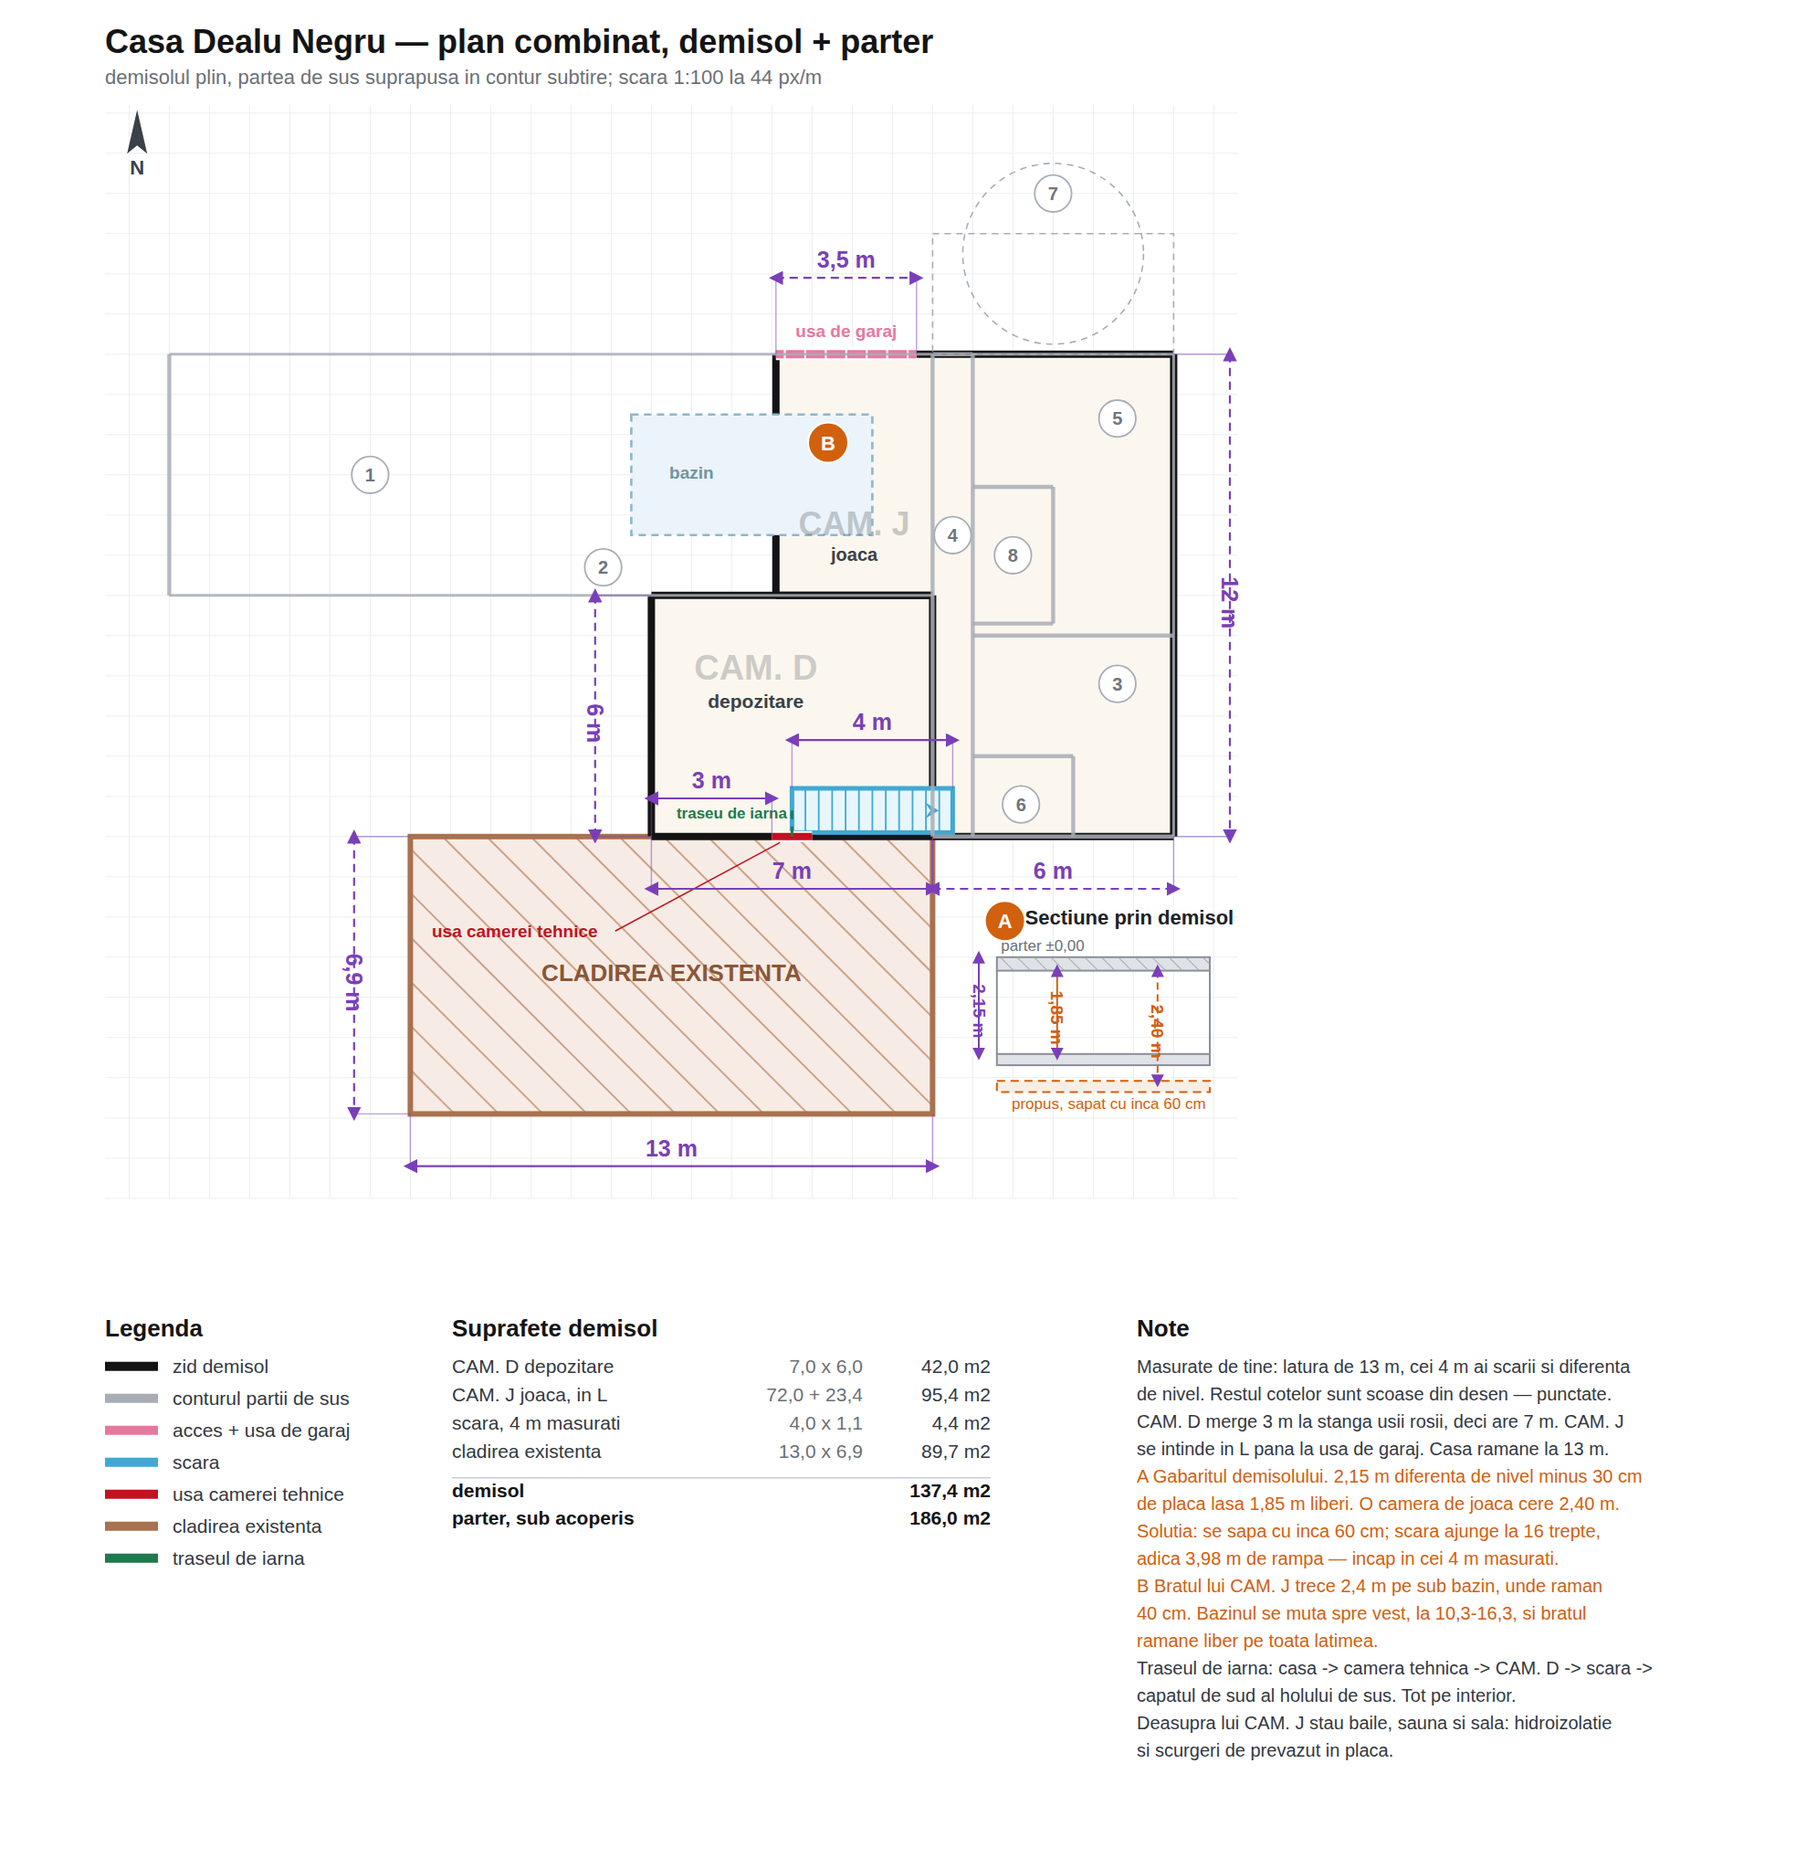
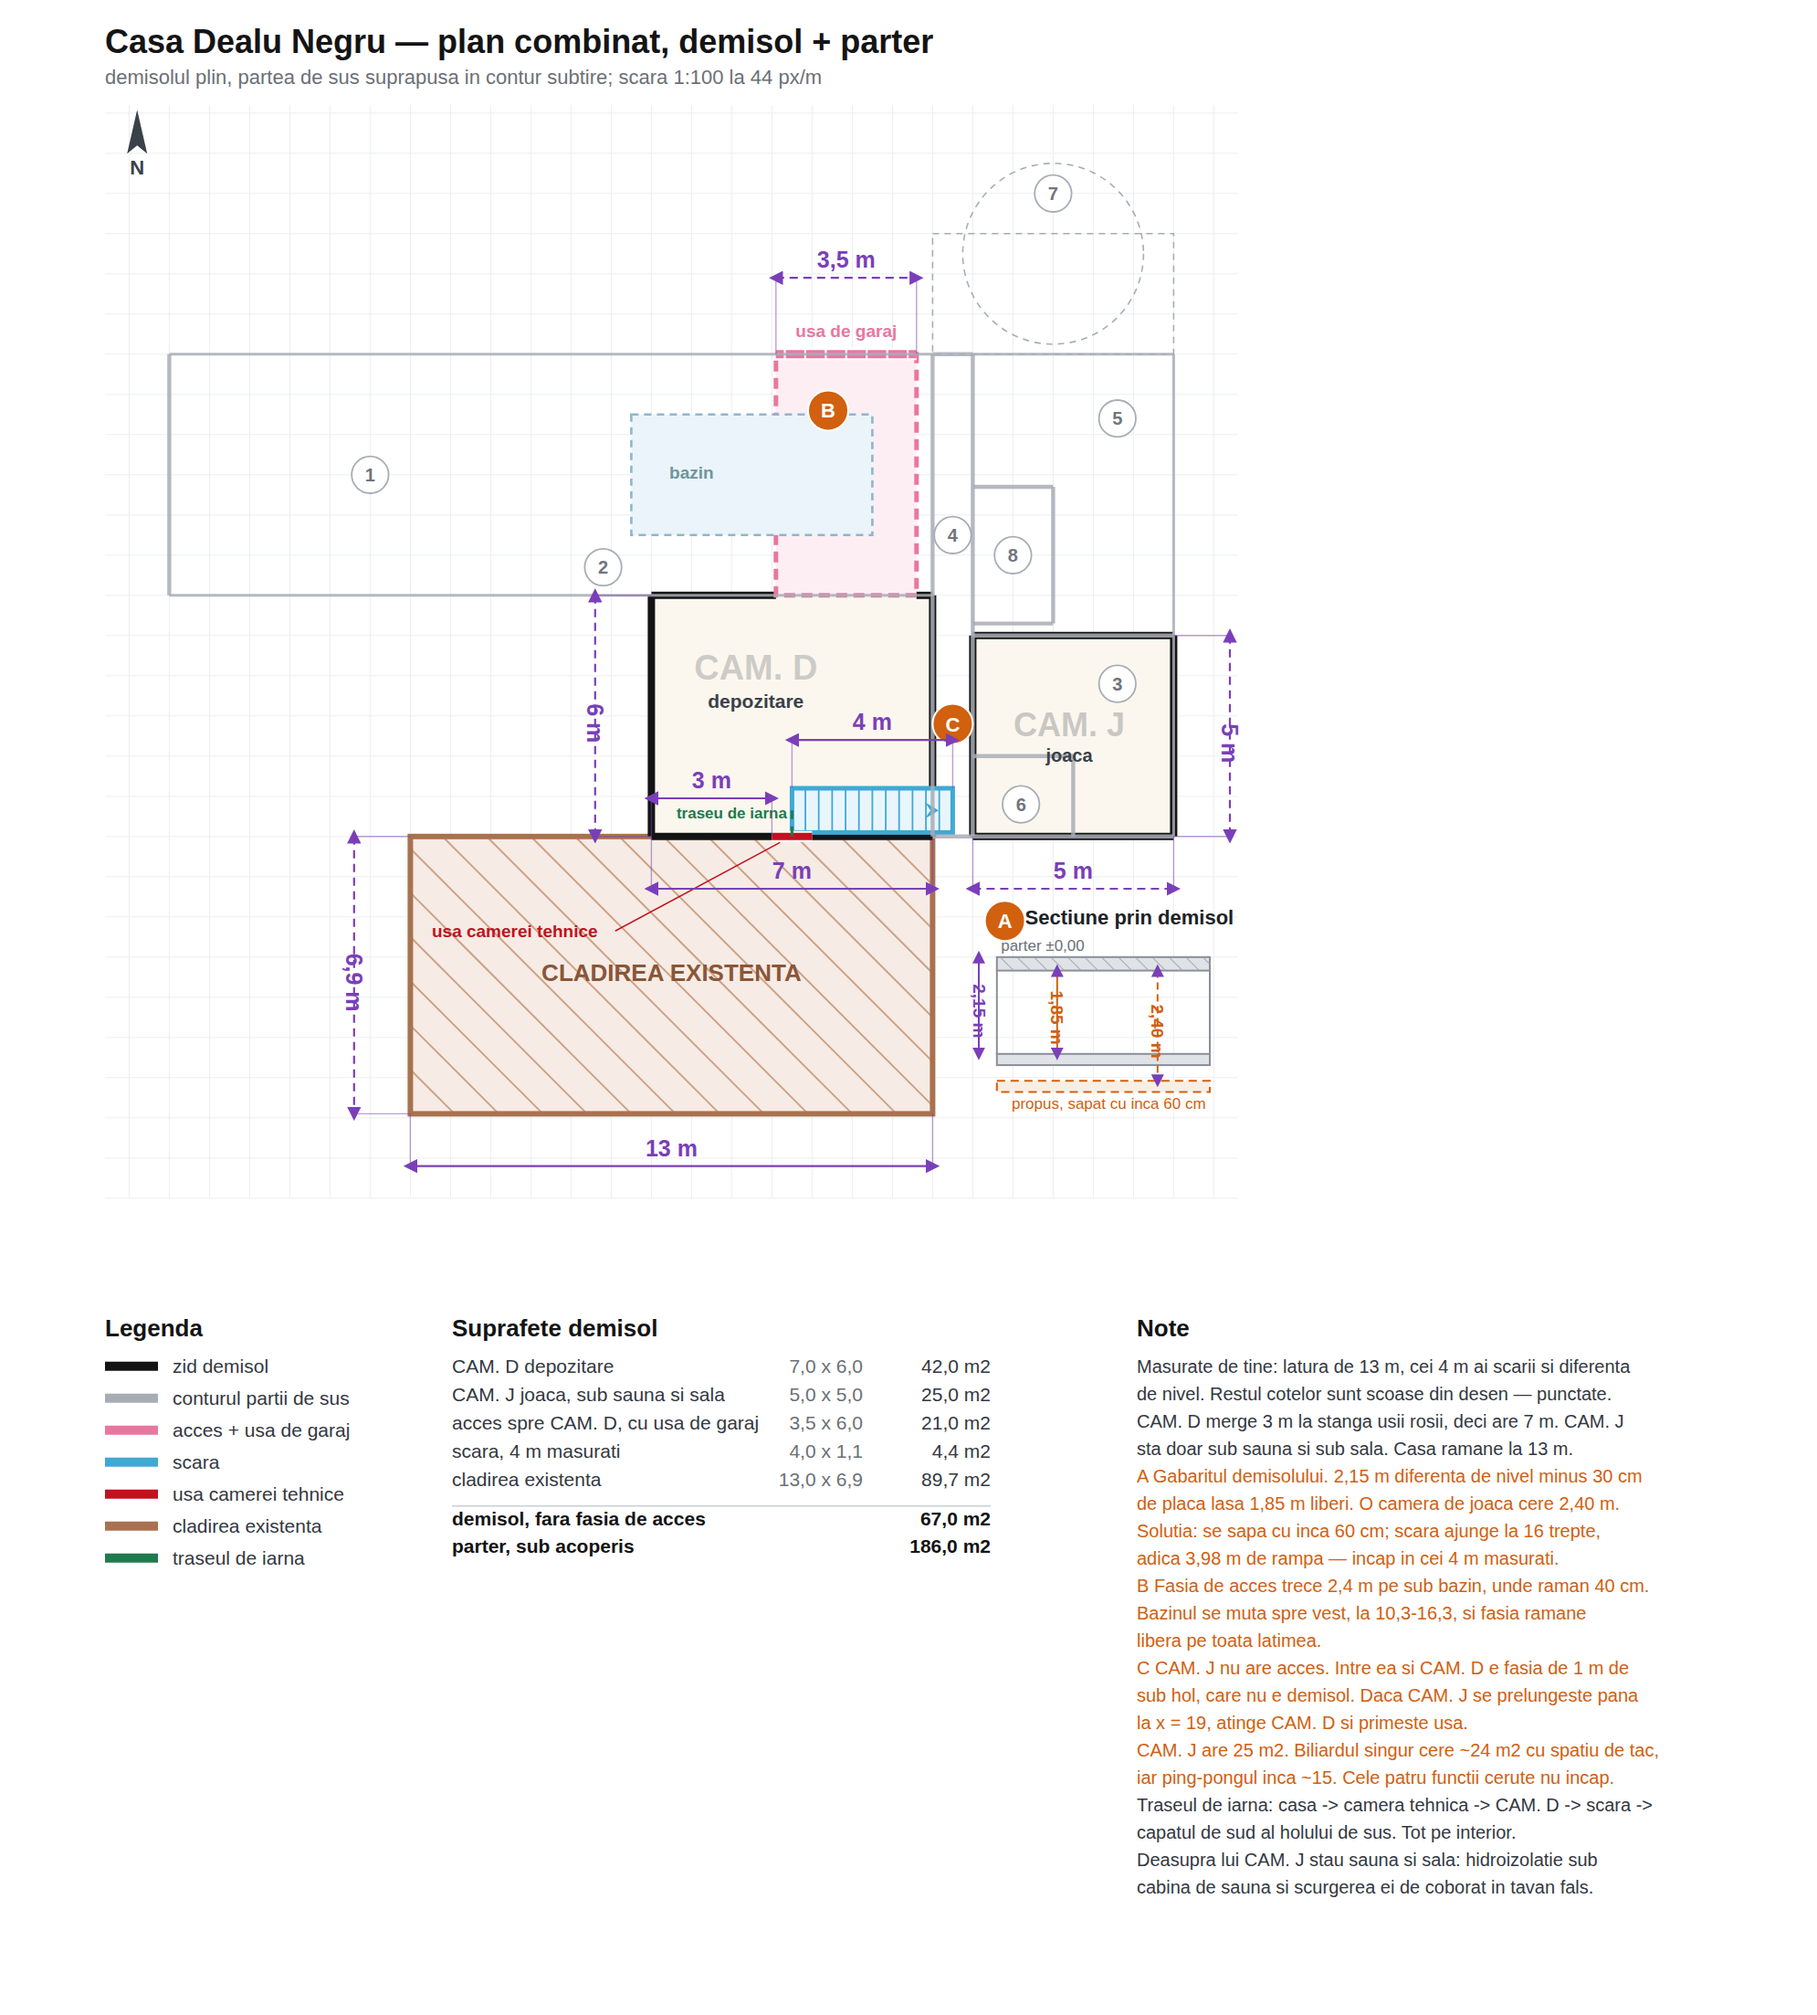
CAM. J doar sub sauna si sub sala; fasia de acces revine separata
CAM. J scade la 5 x 5 m in coltul de sud-est al aripii, iar fasia roz redevine
acces spre CAM. D, cu usa de garaj la nord. Demisolul iese 67 m2.

Doua consecinte notate pe plan: CAM. J nu mai atinge CAM. D, intre ele fiind
fasia de 1 m de sub hol, deci ramane fara acces; si cele patru functii cerute
nu incap in 25 m2.

Claude-Session: https://claude.ai/code/session_019U6q6jWLfcY7pu9vjJmFYX

diff --git a/tools/plan_combinat.py b/tools/plan_combinat.py
@@ -24,8 +24,8 @@ import plan_compartimente as P
 # --------------------------------------------------------------------------
 
 CAMD = (12.0, 6.0, 19.0, 12.0)       # 3 m la stanga usii rosii (x = 15)
-CAMJ = (19.0, 0.0, 25.0, 12.0)       # camera de joaca, sub aripa
-CAMJ_EXT = (15.1, 0.0, 19.0, 6.0)    # bratul lui CAM. J, pana la usa de garaj
+CAMJ = (20.0, 7.0, 25.0, 12.0)       # doar sub sauna si sub sala
+ACCES = (15.1, 0.0, 18.6, 6.0)       # acces spre CAM. D, cu usa de garaj
 USA_GARAJ = (15.1, 0.0, 18.6, 0.0)   # usa de garaj, pe fatada de nord
 SCARA = (15.5, 10.8, 19.5, 11.9)     # scara: 4 m masurati de la usa tehnica
 DIF_NIVEL = 2.15                     # diferenta de nivel masurata, "2 m si un pic"
@@ -40,7 +40,7 @@ CASA = (6.0, 12.0, 19.0, 18.9)       # cladirea existenta: latura de 13 m
 
 P.SCARA = 44.0
 P.MARGINE = 115.0
-P.LEGENDA_H = 620.0
+P.LEGENDA_H = 780.0
 P.X_MIN, P.X_MAX = -1.6, 26.6
 P.Y_MIN, P.Y_MAX = -6.2, 21.0
 P.W = max((P.X_MAX - P.X_MIN) * P.SCARA + 2 * P.MARGINE, 1990.0)
@@ -111,7 +111,7 @@ def strat_demisol():
     # pardoseli
     o.append(rect(*CAMD, fill="#fbf7ef", stroke="none"))
     o.append(rect(*CAMJ, fill="#fbf7ef", stroke="none"))
-    o.append(rect(*CAMJ_EXT, fill="#fbf7ef", stroke="none"))
+    o.append(rect(*ACCES, fill="#fdeef3", stroke="none"))
     # cladirea existenta
     o.append(rect(*CASA, fill="#f6ece5", stroke="none"))
     o.extend(hasura(*CASA))
@@ -119,20 +119,24 @@ def strat_demisol():
 
     # zidurile demisolului
     z = dict(stroke=C_ZID, stroke_width="8", stroke_linecap="butt")
-    # CAM. D
-    o.append(line(CAMD[0], CAMD[1], CAMD[2], CAMD[1], **z))
+    # CAM. D, cu golul spre fasia de acces pe latura de nord
+    o.append(line(CAMD[0], CAMD[1], ACCES[0], CAMD[1], **z))
+    o.append(line(ACCES[2], CAMD[1], CAMD[2], CAMD[1], **z))
     o.append(line(CAMD[0], CAMD[1], CAMD[0], CAMD[3], **z))
     o.append(line(CAMD[0], CAMD[3], CAMD[2], CAMD[3], **z))
     o.append(line(CAMD[2], CAMD[1], CAMD[2], SCARA[1], **z))
     o.append(line(CAMD[2], SCARA[3], CAMD[2], CAMD[3], **z))
-    # CAM. J, conturul in L
-    o.append(line(CAMJ_EXT[0], 0.0, CAMJ[2], 0.0, **z))
-    o.append(line(CAMJ_EXT[0], 0.0, CAMJ_EXT[0], CAMJ_EXT[3], **z))
-    o.append(line(CAMJ_EXT[0], CAMJ_EXT[3], CAMJ[0], CAMJ_EXT[3], **z))
-    o.append(line(CAMJ[2], 0.0, CAMJ[2], CAMJ[3], **z))
+    # CAM. J
+    o.append(line(CAMJ[0], CAMJ[1], CAMJ[2], CAMJ[1], **z))
+    o.append(line(CAMJ[0], CAMJ[1], CAMJ[0], CAMJ[3], **z))
+    o.append(line(CAMJ[2], CAMJ[1], CAMJ[2], CAMJ[3], **z))
     o.append(line(CAMJ[0], CAMJ[3], CAMJ[2], CAMJ[3], **z))
 
-    # usa de garaj, pe fatada de nord a bratului lui CAM. J
+    # fasia de acces spre CAM. D, cu usa de garaj la nord
+    o.append(rect(*ACCES, fill="none", stroke=C_RAMPA, stroke_width="5",
+                  stroke_dasharray="12 7"))
+    o.append(text((ACCES[0] + ACCES[2]) / 2.0, 3.2, "acces", size=19,
+                  weight="600", fill=C_RAMPA))
     o.append(line(*USA_GARAJ, stroke="#ffffff", stroke_width="13"))
     o.append(line(*USA_GARAJ, stroke=C_RAMPA, stroke_width="9"))
     for k in range(7):
@@ -167,7 +171,7 @@ def strat_demisol():
 def note_clash():
     """Cerculetele portocalii care marcheaza cele doua ciocniri."""
     o = []
-    for nr, (cx, cy) in {"A": (20.8, 14.1), "B": (16.4, 2.2)}.items():
+    for nr, (cx, cy) in {"A": (20.8, 14.1), "B": (16.4, 1.4), "C": (19.5, 9.2)}.items():
         o.append(circle(cx, cy, 0.5, fill=C_NOTA, stroke="#ffffff",
                         stroke_width="2"))
         o.append(text(cx, cy, nr, size=22, weight="700", fill="#ffffff", dy=8))
@@ -230,7 +234,8 @@ def sectiune_gabarit():
 
 TABEL = [
     ("CAM. D  depozitare", "7,0 x 6,0", "42,0"),
-    ("CAM. J  joaca, in L", "72,0 + 23,4", "95,4"),
+    ("CAM. J  joaca, sub sauna si sala", "5,0 x 5,0", "25,0"),
+    ("acces spre CAM. D, cu usa de garaj", "3,5 x 6,0", "21,0"),
         ("scara, 4 m masurati", "4,0 x 1,1", "4,4"),
     ("cladirea existenta", "13,0 x 6,9", "89,7"),
 ]
@@ -239,18 +244,23 @@ NOTE = [
     ("Masurate de tine: latura de 13 m, cei 4 m ai scarii si diferenta", "#33383f"),
     ("de nivel. Restul cotelor sunt scoase din desen — punctate.", "#33383f"),
     ("CAM. D merge 3 m la stanga usii rosii, deci are 7 m. CAM. J", "#33383f"),
-    ("   se intinde in L pana la usa de garaj. Casa ramane la 13 m.", "#33383f"),
+    ("   sta doar sub sauna si sub sala. Casa ramane la 13 m.", "#33383f"),
     ("A  Gabaritul demisolului. 2,15 m diferenta de nivel minus 30 cm", C_NOTA),
     ("   de placa lasa 1,85 m liberi. O camera de joaca cere 2,40 m.", C_NOTA),
     ("   Solutia: se sapa cu inca 60 cm; scara ajunge la 16 trepte,", C_NOTA),
     ("   adica 3,98 m de rampa — incap in cei 4 m masurati.", C_NOTA),
-    ("B  Bratul lui CAM. J trece 2,4 m pe sub bazin, unde raman", C_NOTA),
-    ("   40 cm. Bazinul se muta spre vest, la 10,3-16,3, si bratul", C_NOTA),
-    ("   ramane liber pe toata latimea.", C_NOTA),
+    ("B  Fasia de acces trece 2,4 m pe sub bazin, unde raman 40 cm.", C_NOTA),
+    ("   Bazinul se muta spre vest, la 10,3-16,3, si fasia ramane", C_NOTA),
+    ("   libera pe toata latimea.", C_NOTA),
+    ("C  CAM. J nu are acces. Intre ea si CAM. D e fasia de 1 m de", C_NOTA),
+    ("   sub hol, care nu e demisol. Daca CAM. J se prelungeste pana", C_NOTA),
+    ("   la x = 19, atinge CAM. D si primeste usa.", C_NOTA),
+    ("CAM. J are 25 m2. Biliardul singur cere ~24 m2 cu spatiu de tac,", C_NOTA),
+    ("   iar ping-pongul inca ~15. Cele patru functii cerute nu incap.", C_NOTA),
     ("Traseul de iarna: casa -> camera tehnica -> CAM. D -> scara ->", "#33383f"),
     ("   capatul de sud al holului de sus. Tot pe interior.", "#33383f"),
-    ("Deasupra lui CAM. J stau baile, sauna si sala: hidroizolatie", "#33383f"),
-    ("   si scurgeri de prevazut in placa.", "#33383f"),
+    ("Deasupra lui CAM. J stau sauna si sala: hidroizolatie sub", "#33383f"),
+    ("   cabina de sauna si scurgerea ei de coborat in tavan fals.", "#33383f"),
 ]
 
 
@@ -285,8 +295,9 @@ def legenda(y0):
     yy = y0 + 40 + len(TABEL) * 31 + 12
     out.append('<line x1="%.1f" y1="%.1f" x2="%.1f" y2="%.1f" stroke="#c9ced4" '
                'stroke-width="1.6"/>' % (x2, yy - 21, x2 + 590, yy - 21))
-    out.append(text_px(x2, yy, "demisol", size=21, weight="700"))
-    out.append(text_px(x2 + 590, yy, "137,4 m2", size=21, weight="700",
+    out.append(text_px(x2, yy, "demisol, fara fasia de acces", size=21,
+                       weight="700"))
+    out.append(text_px(x2 + 590, yy, "67,0 m2", size=21, weight="700",
                        anchor="end"))
     out.append(text_px(x2, yy + 30, "parter, sub acoperis", size=21,
                        weight="700"))
@@ -304,8 +315,8 @@ COTE = [
     (CAMD[0], CAMD[3], CAMD[2], CAMD[3], "7 m", True, 1.3),
     (CAMD[0], CAMD[3], USA_TEHNICA[0], CAMD[3], "3 m", True, -0.95),
     (CAMD[0], CAMD[1], CAMD[0], CAMD[3], "6 m", False, -1.4),
-    (CAMJ[0], CAMJ[3], CAMJ[2], CAMJ[3], "6 m", False, 1.3),
-    (CAMJ[2], CAMJ[1], CAMJ[2], CAMJ[3], "12 m", False, 1.4),
+    (CAMJ[0], CAMJ[3], CAMJ[2], CAMJ[3], "5 m", False, 1.3),
+    (CAMJ[2], CAMJ[1], CAMJ[2], CAMJ[3], "5 m", False, 1.4),
     (USA_GARAJ[0], 0.0, USA_GARAJ[2], 0.0, "3,5 m", False, -1.9),
     (SCARA[0], SCARA[1], SCARA[2], SCARA[1], "4 m", True, -1.2),
     (CASA[0], CASA[3], CASA[2], CASA[3], "13 m", True, 1.3),
@@ -341,9 +352,9 @@ def construieste_svg():
                   style="opacity:0.20"))
     o.append(text(14.6, 8.8, "depozitare", size=21, weight="600",
                   fill="#3b4149"))
-    o.append(text(17.05, 4.5, "CAM. J", size=36, weight="700", fill="#1d2126",
+    o.append(text(22.4, 9.5, "CAM. J", size=36, weight="700", fill="#1d2126",
                   style="opacity:0.22"))
-    o.append(text(17.05, 5.15, "joaca", size=20, weight="600", fill="#3b4149"))
+    o.append(text(22.4, 10.15, "joaca", size=20, weight="600", fill="#3b4149"))
     o.append(text(12.5, 15.6, "CLADIREA EXISTENTA", size=26, weight="700",
                   fill="#8a5638"))
     o.append(text(8.6, 14.5, "usa camerei tehnice", size=19, weight="600",

diff --git a/renders_hf/README_compartimente.md b/renders_hf/README_compartimente.md
@@ -114,15 +114,16 @@ usa camerei tehnice.
 | Zona | Dimensiuni | Suprafata |
 |---|---|---|
 | CAM. D — depozitare | 7,0 × 6,0 | 42,0 m² |
-| CAM. J — joacă, în L până la ușa de garaj | 72,0 + 23,4 | 95,4 m² |
+| CAM. J — joacă, sub saună și sub sală | 5,0 × 5,0 | 25,0 m² |
+| fâșia de acces spre CAM. D, cu ușă de garaj | 3,5 × 6,0 | 21,0 m² |
 | scara | 4,0 × 1,1 | 4,4 m² |
 | clădirea existentă (adâncime estimată) | 13,0 × 6,9 | 89,7 m² |
 
-Demisol: **137,4 m²**. Parter: 186,0 m².
+Demisol, fără fâșia de acces: **67,0 m²**. Parter: 186,0 m².
 
 CAM. D merge 3 m la stânga ușii roșii, deci are 7 m, și se oprește la est pe
-x = 19, acolo unde cade scara. CAM. J se întinde în L, cu brațul de nord ajuns
-până la ușa de garaj de pe fațada de nord. Casa rămâne la 13 m.
+x = 19, acolo unde cade scara. CAM. J stă doar sub saună și sub sală, adică
+5 × 5 m în colțul de sud-est. Casa rămâne la 13 m.
 
 Traseul de iarnă merge casă → cameră tehnică → CAM. D → scară → capătul de sud
 al holului de sus, tot pe interior.
@@ -136,10 +137,17 @@ al holului de sus, tot pe interior.
    care încap fix în cei 4 m măsurați. Deasupra lui CAM. D e doar terasa, iar
    deasupra lui CAM. J doar aripa, deci coborârea nu schimbă nimic la parter:
    e numai săpătură.
-2. **B — brațul lui CAM. J trece 2,4 m pe sub bazin.** Brațul e la x 15,1–19,
-   bazinul la 11,5–17,5. Sub bazin rămân circa 40 cm, iar acum acolo e cameră
-   de joacă, nu depozit — deci e mai grav decât înainte. Bazinul se mută spre
-   vest, la 10,3–16,3, și brațul rămâne liber pe toată lățimea.
+2. **B — fâșia de acces trece 2,4 m pe sub bazin.** Fâșia e la x 15,1–18,6,
+   bazinul la 11,5–17,5. Sub bazin rămân circa 40 cm. Bazinul se mută spre
+   vest, la 10,3–16,3, și fâșia rămâne liberă pe toată lățimea.
+3. **C — CAM. J nu are acces.** Între ea și CAM. D e fâșia de 1 m de sub hol,
+   care nu e demisol, deci camera de joacă rămâne izolată. Dacă CAM. J se
+   prelungește un metru spre vest, până la x = 19, atinge CAM. D și primește
+   ușă.
+4. **CAM. J are 25 m².** Biliardul singur cere circa 24 m² cu spațiul de tac în
+   jur, iar ping-pongul încă vreo 15. TV cu canapea, biliard, ping-pong și
+   fotbal de masă nu încap în 5 × 5 m — intră cel mult canapeaua cu televizorul
+   și un singur joc.
 3. **Ușa de garaj e pe fațada de nord, la cota demisolului.** Terenul urcă spre
    nord, deci acolo cota naturală e la nivelul parterului — ușa ar fi îngropată
    2 m. Ori se face un decupaj în teren în fața ei, ori ușa e de fapt la cota
